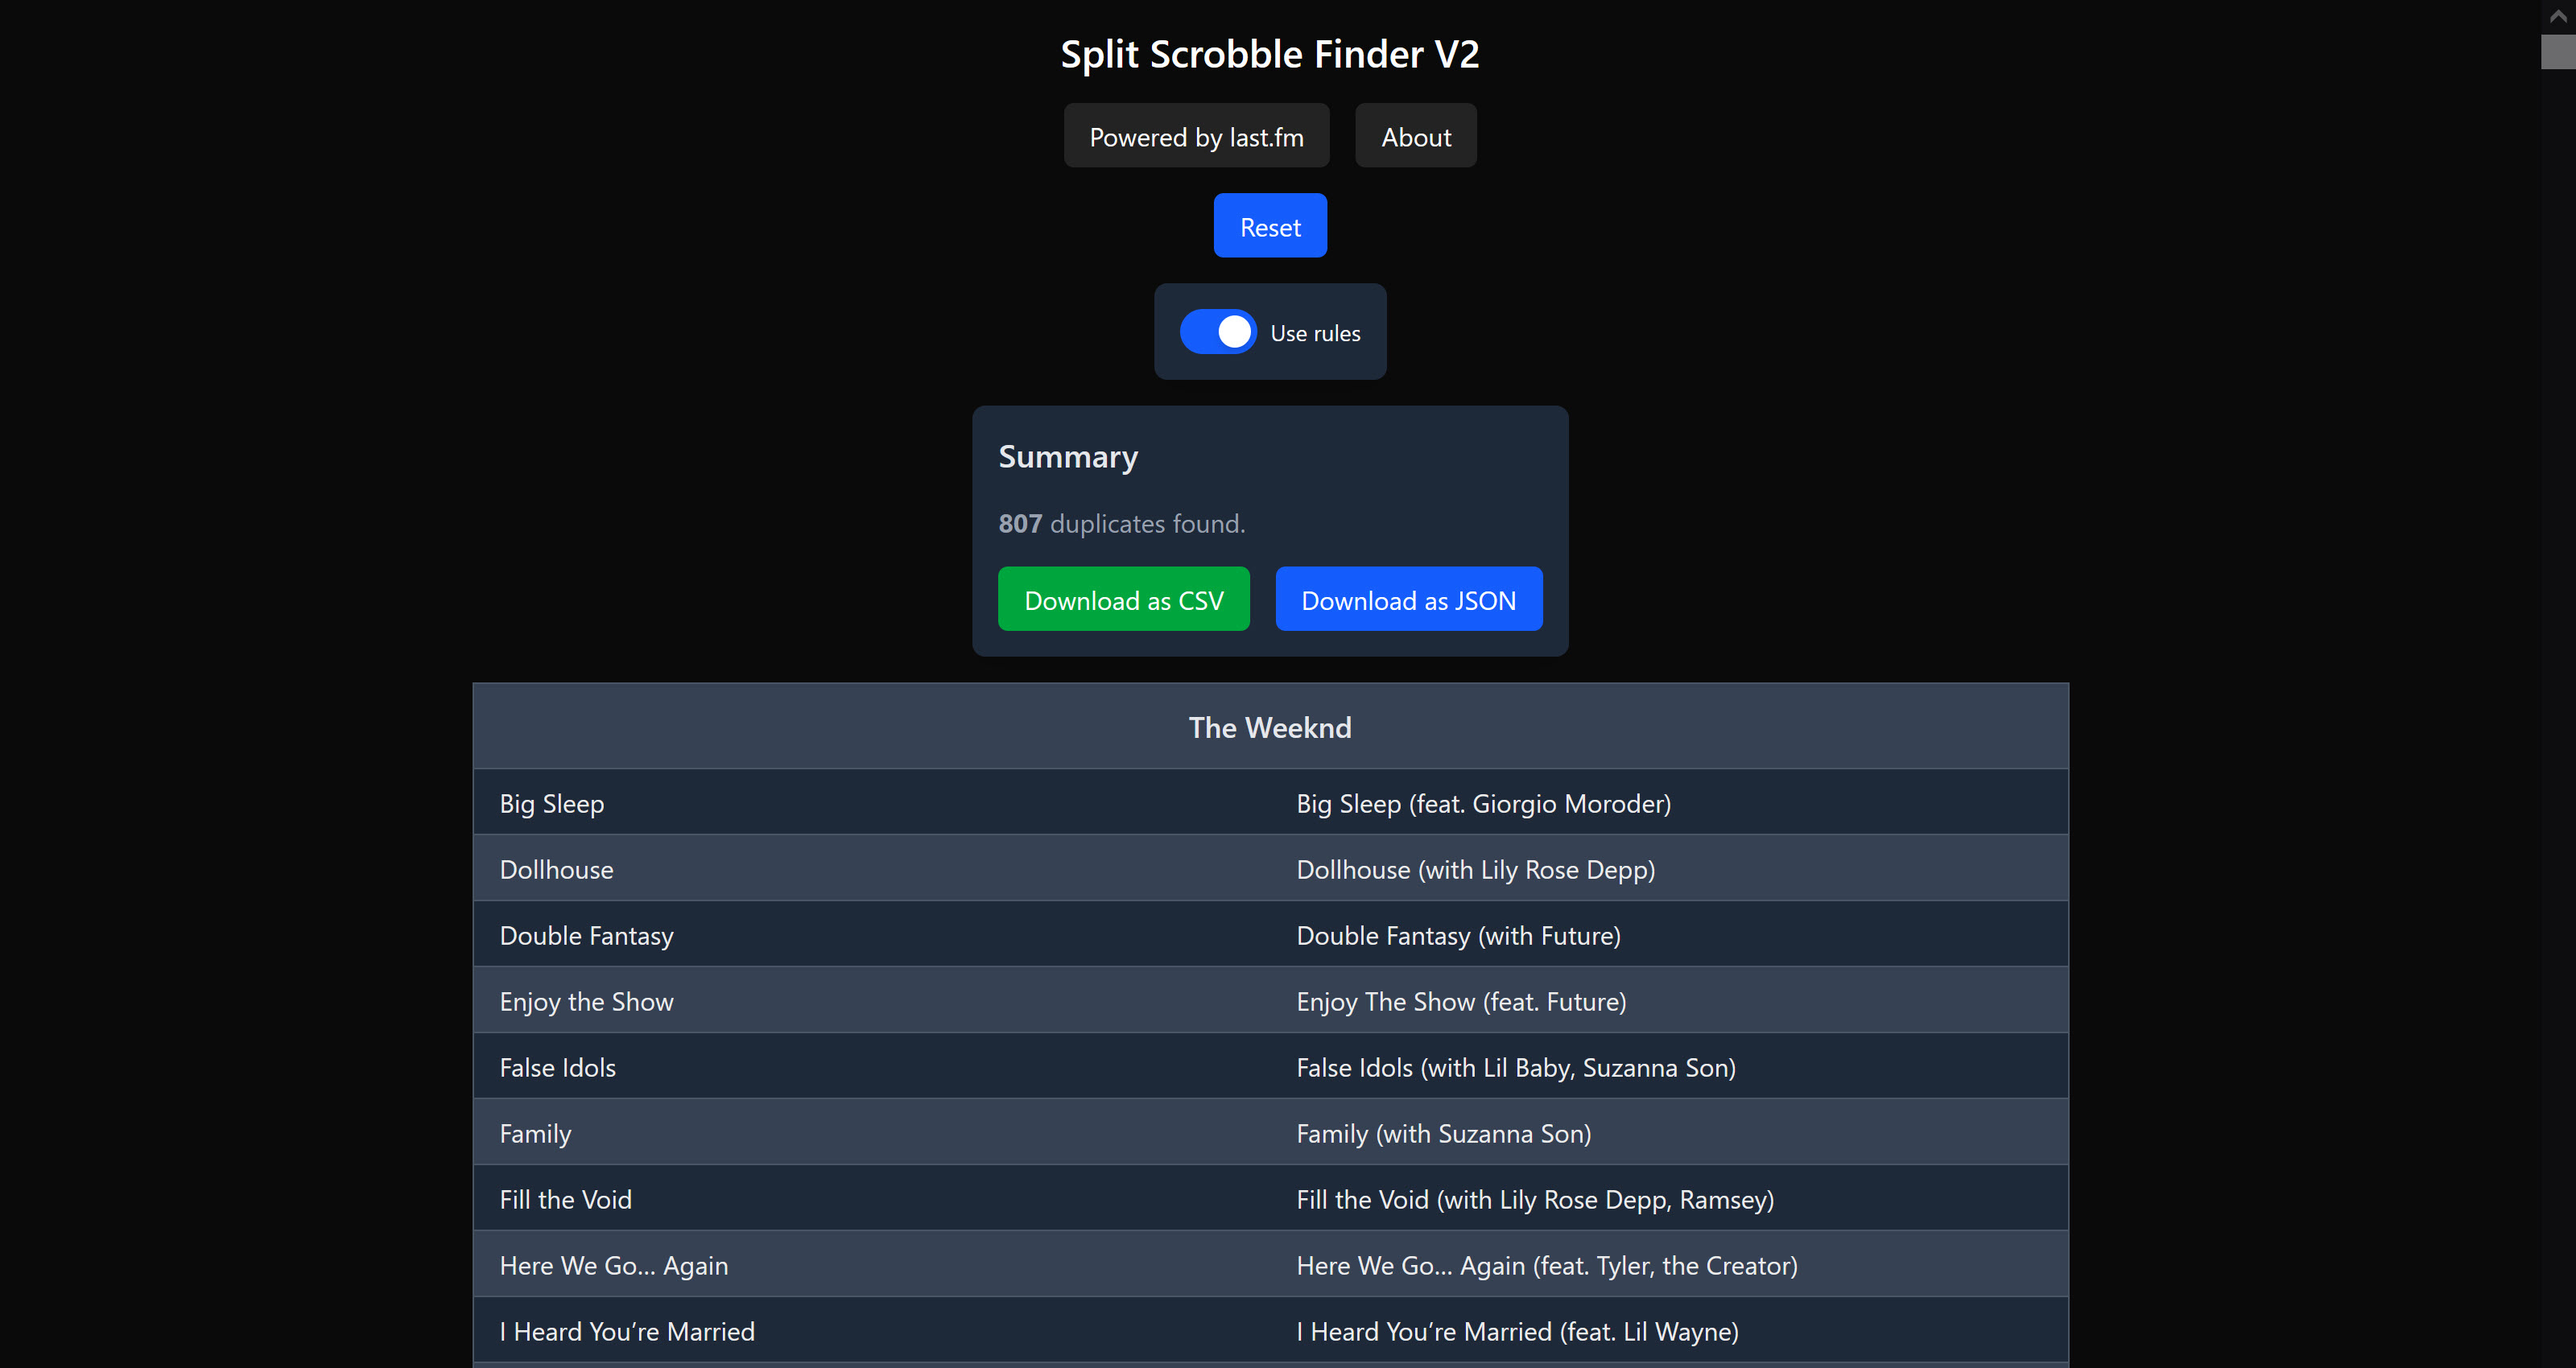
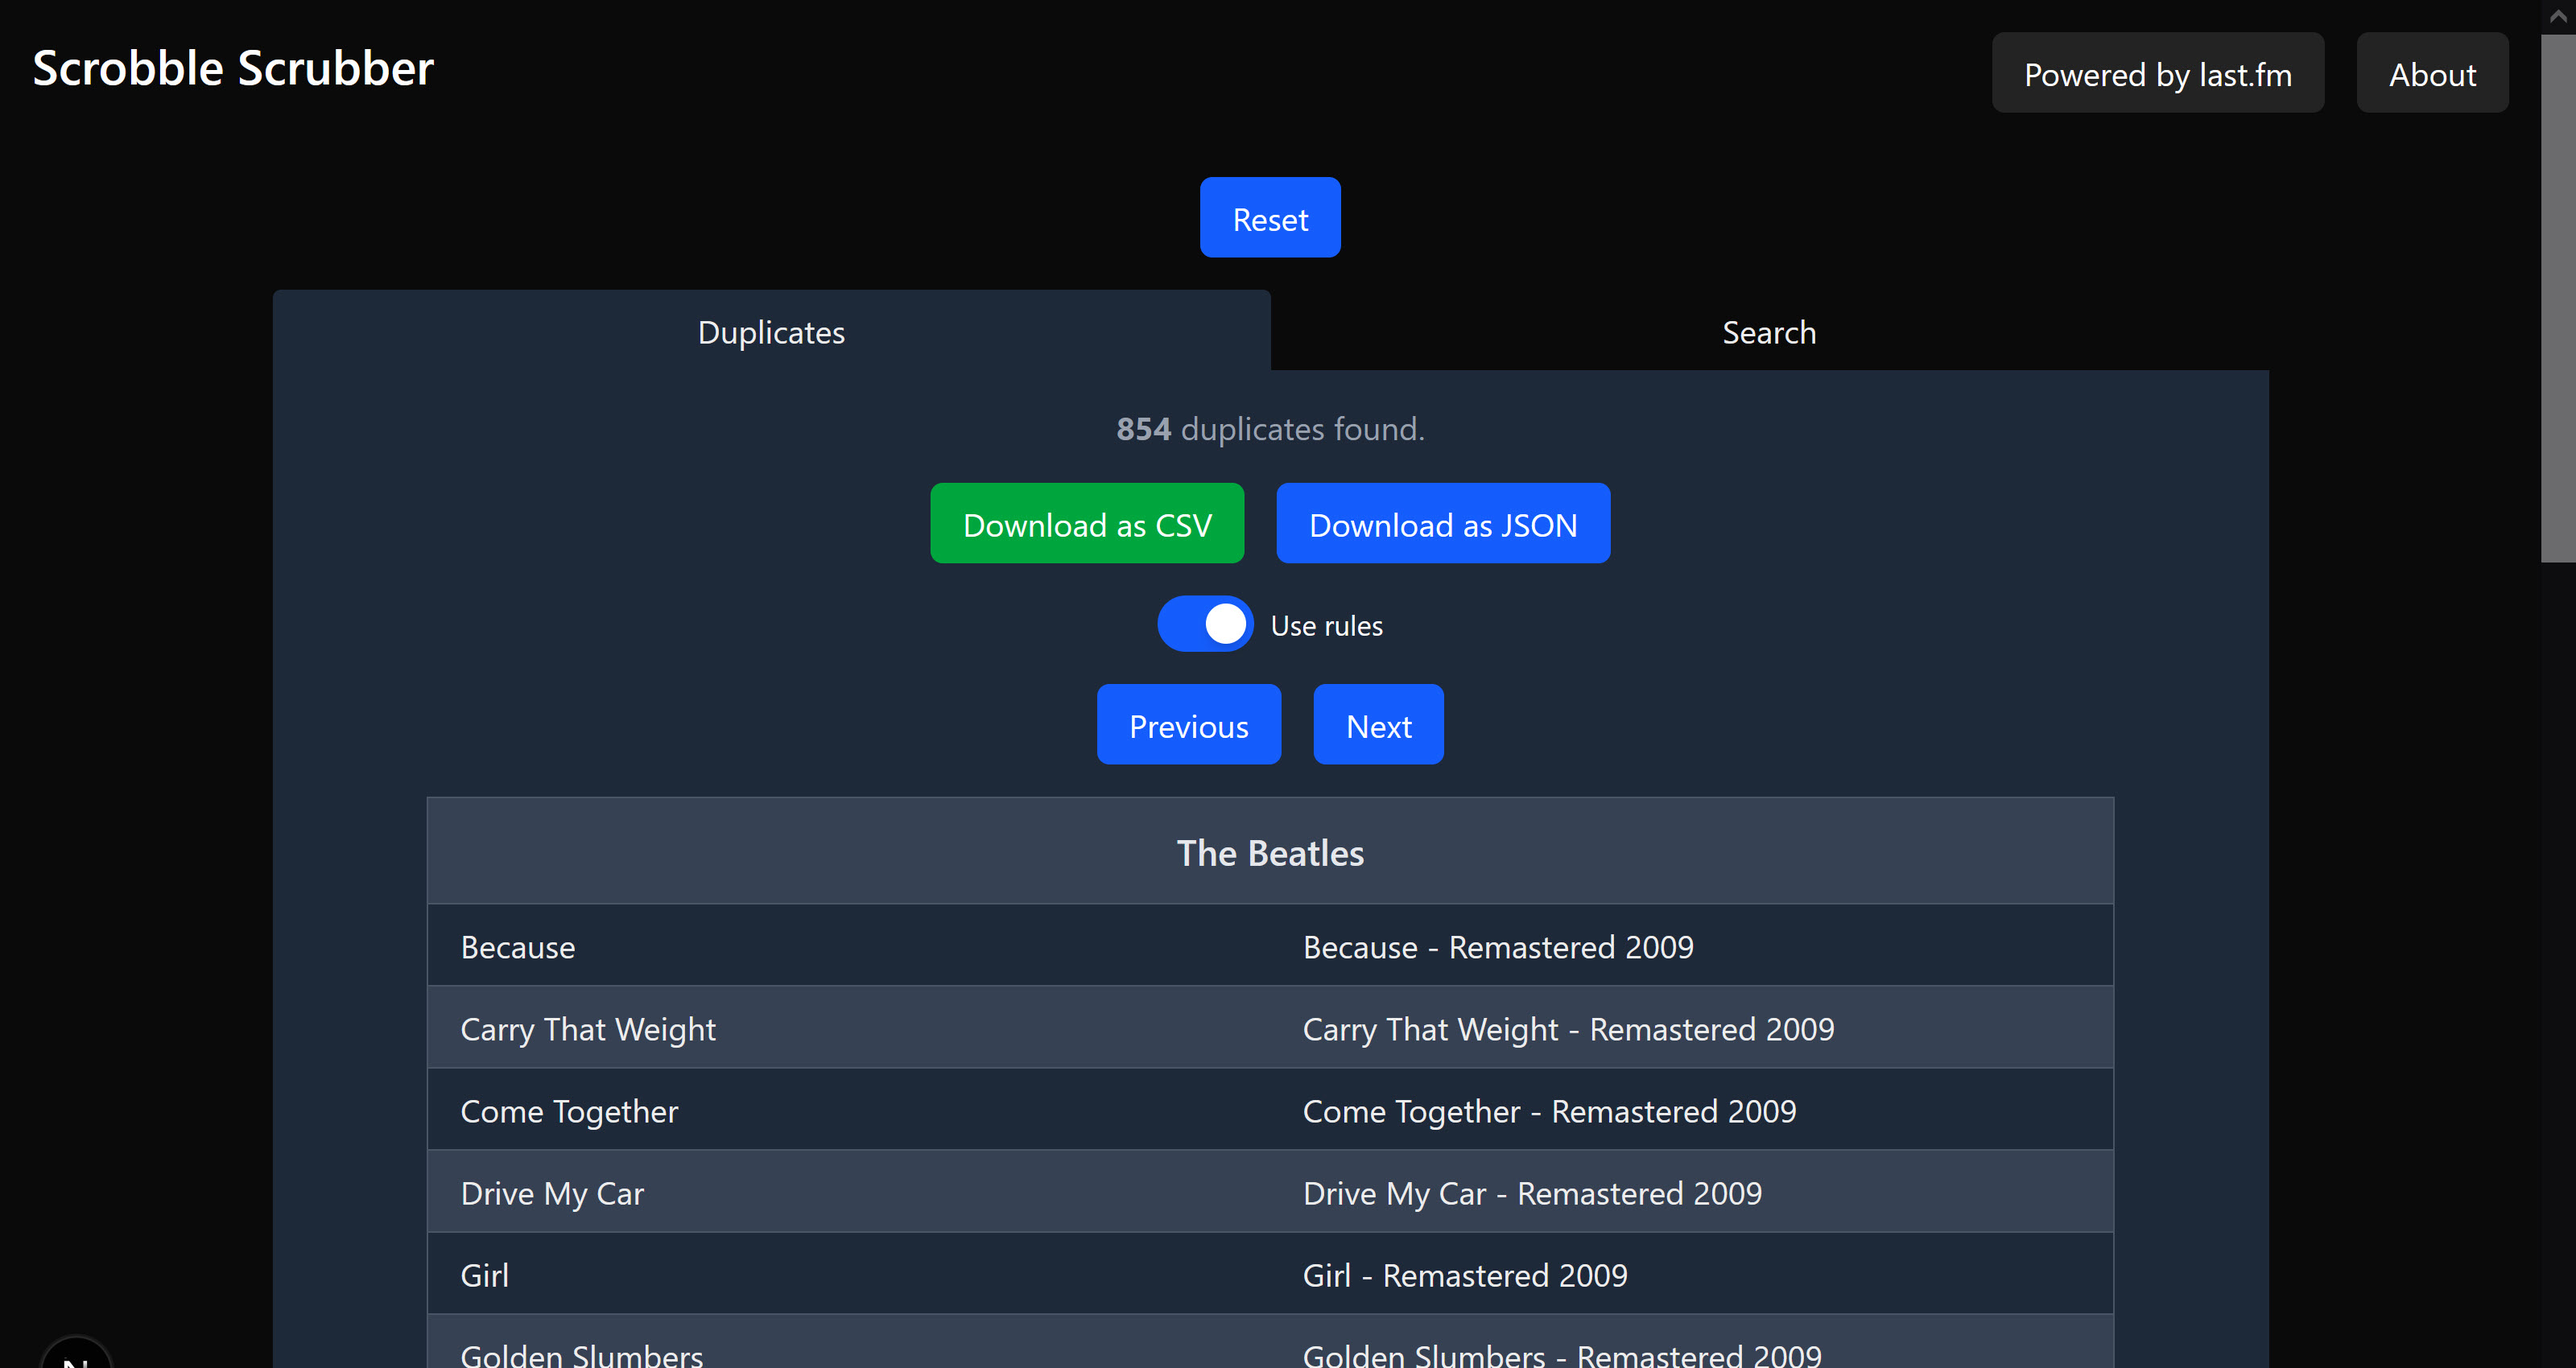
Update README

diff --git a/README.md b/README.md
@@ -1,4 +1,4 @@
-# Split Scrobble Finder V2
+# Scrobble Scrubber
 
 ---
 
@@ -6,11 +6,13 @@
 
 ## Background
 
-This web app allows you to scan your Last.fm profile for split scrobbles, which can arise when streaming services change the metadata of a track, album or artist, such as adding a feature tag to the track title.
+This web app helps you clean up your Last.fm library by scanning for duplicate or keyword-matching tracks, albums, or artists.
 
-Switching between music streaming platforms can also create split entries in your Last.fm profile, given that metadata is generally not standardized among all platforms.
+Duplicate records often appear when streaming services update track or album metadata, such as adding a feature or deluxe tag. They can also arise from using multiple streaming platforms with inconsistent metadata.
 
-This is V2 of the app, as my [first version](https://github.com/alexbisaillion/split-scrobble-finder) fell into disrepair when Heroku removed its free tier.
+Each duplicate found includes a direct link, allowing you to edit the scrobbles on the Last.fm website. Note that scrobble editing requires a Last.fm Pro subscription. You can also save your search results for future access, independent of this site.
+
+You can also search all fetched items for a specific keyword you'd like to clean up, such as removing &apos;Remastered&apos; or &apos;Deluxe&apos; from your library.
 
 ## Usage
 
@@ -24,9 +26,7 @@ I recommend trying requests in both fashions. If you find that the rule set fail
 
 Note that request times can be significant, as it requires numerous strenuous calls to the Last.fm API.
 
-Once your results have been fetched, you can scroll through the detected split entries, where each entry provides a hyperlink to the specified track/album/artist in your library on the Last.fm site. You can then edit the scrobbles as desired on Last.fm.
-
-You can also download your results in either JSON or CSV format, so you don't have to keep waiting for your results to be generated if you want to view your results again.
+Once your results have been fetched, you can paginate through the detected split entries, where each entry provides a hyperlink to the specified track/album/artist in your library on the Last.fm site. You can then edit the scrobbles as desired on Last.fm. You can also download your results in either JSON or CSV format, so you don't have to keep waiting for your results to be generated if you want to view your results again. The search tab allows you to find specific keywords in the fetched results that you may want to clean up, such as finding all tracks that have "Remastered" in the title.
 
 ## Getting Started
 
@@ -36,6 +36,12 @@ Once you have an API key, create a `.env.local` file in the root directory and a
 
 ```
 LAST_FM_API_KEY=somealphanumericvalue
+```
+
+First, install all dependencies:
+
+```
+npm install
 ```
 
 Next, run the development server:
@@ -66,4 +72,4 @@ npm run test
 
 This is a [Next.js](https://nextjs.org) project bootstrapped with [`create-next-app`](https://nextjs.org/docs/app/api-reference/cli/create-next-app).
 
-The dependencies for this have been kept to a bare minimum, relying only on React and Next.js. Tailwind is used for the CSS. Keeping the app lightweight ensures it won't fall into disrepair again due to outdated dependencies.
+The dependencies for this have been kept to a bare minimum, relying only on React and Next.js. Tailwind is used for the CSS. Keeping the app lightweight ensures it won't fall into disrepair due to outdated and/or deprecated dependencies.
